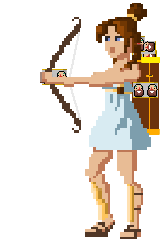
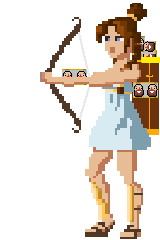
omg diane trop belle

diff --git a/src/levelScene/levelSecond.js b/src/levelScene/levelSecond.js
@@ -73,10 +73,11 @@ export default class LevelSecond extends Phaser.Scene {
         this.load.image('alter2haut1',               'https://raw.githubusercontent.com/MaverickAD/SMWH/main/assets/alter2-marche-haut.png');
         this.load.image('alter2haut2',               'https://raw.githubusercontent.com/MaverickAD/SMWH/main/assets/alter2-marche-haut1.png');
         this.load.image('bar',                       'https://raw.githubusercontent.com/MaverickAD/SMWH/main/assets/bar.png');
-        this.load.image('Arte1',                       'https://raw.githubusercontent.com/MaverickAD/SMWH/main/assets/artemisBow1.png');
-        this.load.image('Arte2',                       'https://raw.githubusercontent.com/MaverickAD/SMWH/main/assets/artemisBow2.png');
-        this.load.image('Arte3',                       'https://raw.githubusercontent.com/MaverickAD/SMWH/main/assets/artemisBow3.png');
-        this.load.image('Arte4',                       'https://raw.githubusercontent.com/MaverickAD/SMWH/main/assets/artemisBow4.png');
+
+        for(let i = 1; i <= 9; i++){
+            this.load.image('Arte' + i,                       'https://raw.githubusercontent.com/MaverickAD/SMWH/main/assets/artemisBow' + i + '.png');
+        }
+        
         this.load.image('carpet',                      'https://raw.githubusercontent.com/MaverickAD/SMWH/main/assets/redCarpet.png');
         this.load.image('gate',                        'https://raw.githubusercontent.com/MaverickAD/SMWH/main/assets/gate.png');
         this.load.image('fleurs',                      'https://raw.githubusercontent.com/MaverickAD/SMWH/main/assets/fleurs.png');
@@ -90,6 +91,7 @@ export default class LevelSecond extends Phaser.Scene {
         this.load.audio('no-escape',                         'https://raw.githubusercontent.com/MaverickAD/SMWH/main/assets/no-escape.mp3');
         this.load.image("endScreenLaurier",                  "https://raw.githubusercontent.com/MaverickAD/SMWH/main/assets/end_screen_level_1_laurier.png");
         this.load.image("endScreenBackground",               "https://raw.githubusercontent.com/MaverickAD/SMWH/main/assets/end_screen_level_1_pantheon.png");
+        this.load.audio('bar_sound',                         'https://raw.githubusercontent.com/MaverickAD/SMWH/main/assets/bar_sound.mp3');
     }
 
 
@@ -228,9 +230,12 @@ export default class LevelSecond extends Phaser.Scene {
         this.counter = 0;
         
         this.steps = this.sound.add("steps");
-        this.steps.setVolume(0.3);
+        this.steps.setVolume(0.35);
         this.background = this.sound.add("no-escape");
-        this.background.setVolume(0.3)
+        this.background.setVolume(0.25)
+        this.bar = this.sound.add("bar_sound");
+        this.bar.setVolume(0.2);
+        this.bar.setLoop(true);
 
         this.chronoText;
         this.myTimer;
@@ -260,6 +265,9 @@ export default class LevelSecond extends Phaser.Scene {
     update() {
         if(!this.background.isPlaying){
             this.background.play();
+        }
+        if(!this.bar.isPlaying){
+            this.bar.play();
         }
         this.counter ++;
         this.etiqueteur.update();

diff --git a/src/levelScene/methodLevel/objectsLevel2.js b/src/levelScene/methodLevel/objectsLevel2.js
@@ -76,20 +76,30 @@ export class Etiqueteur {
     update() {
         if(this.animated){
             this.frame += 1;
-            if(this.frame == 7){
-                this.sprite.setTexture("Arte2");
+
+            for (let i = 1; i <= 9; i++){
+                if(this.frame == 2 * i){
+                    this.sprite.setTexture("Arte" + i);
+                }   
+                if(this.frame == 2 * 9){
+                    this.frame = 0;
+                    this.animated = false;
+                }
             }
-            if(this.frame == 14){
-                this.sprite.setTexture("Arte3");
-            }
-            if(this.frame == 21){
-                this.sprite.setTexture("Arte4");
-            };
-            if(this.frame == 28){
-                this.sprite.setTexture("Arte1");
-                this.frame = 0;
-                this.animated = false;
-            }
+            // if(this.frame == 4){
+            //     this.sprite.setTexture("Arte2");
+            // }
+            // if(this.frame == 8){
+            //     this.sprite.setTexture("Arte3");
+            // }
+            // if(this.frame == 21){
+            //     this.sprite.setTexture("Arte4");
+            // };
+            // if(this.frame == 28){
+            //     this.sprite.setTexture("Arte1");
+            //     this.frame = 0;
+            //     this.animated = false;
+            // }
         }
     }
 }

diff --git a/src/menuScene/MainMenu.js b/src/menuScene/MainMenu.js
@@ -50,6 +50,6 @@ export default class MainMenu extends Phaser.Scene {
     this.allBackground.forEach(i => i.visible = false);
     this.allBackground[Math.floor(this.n / 10)].visible = true;
 
-    if (this.inputKeysMeta.ENTER.isDown) this.scene.start("LevelFirst");
+    if (this.inputKeysMeta.ENTER.isDown) this.scene.start("LevelSecond");
   }
 }
